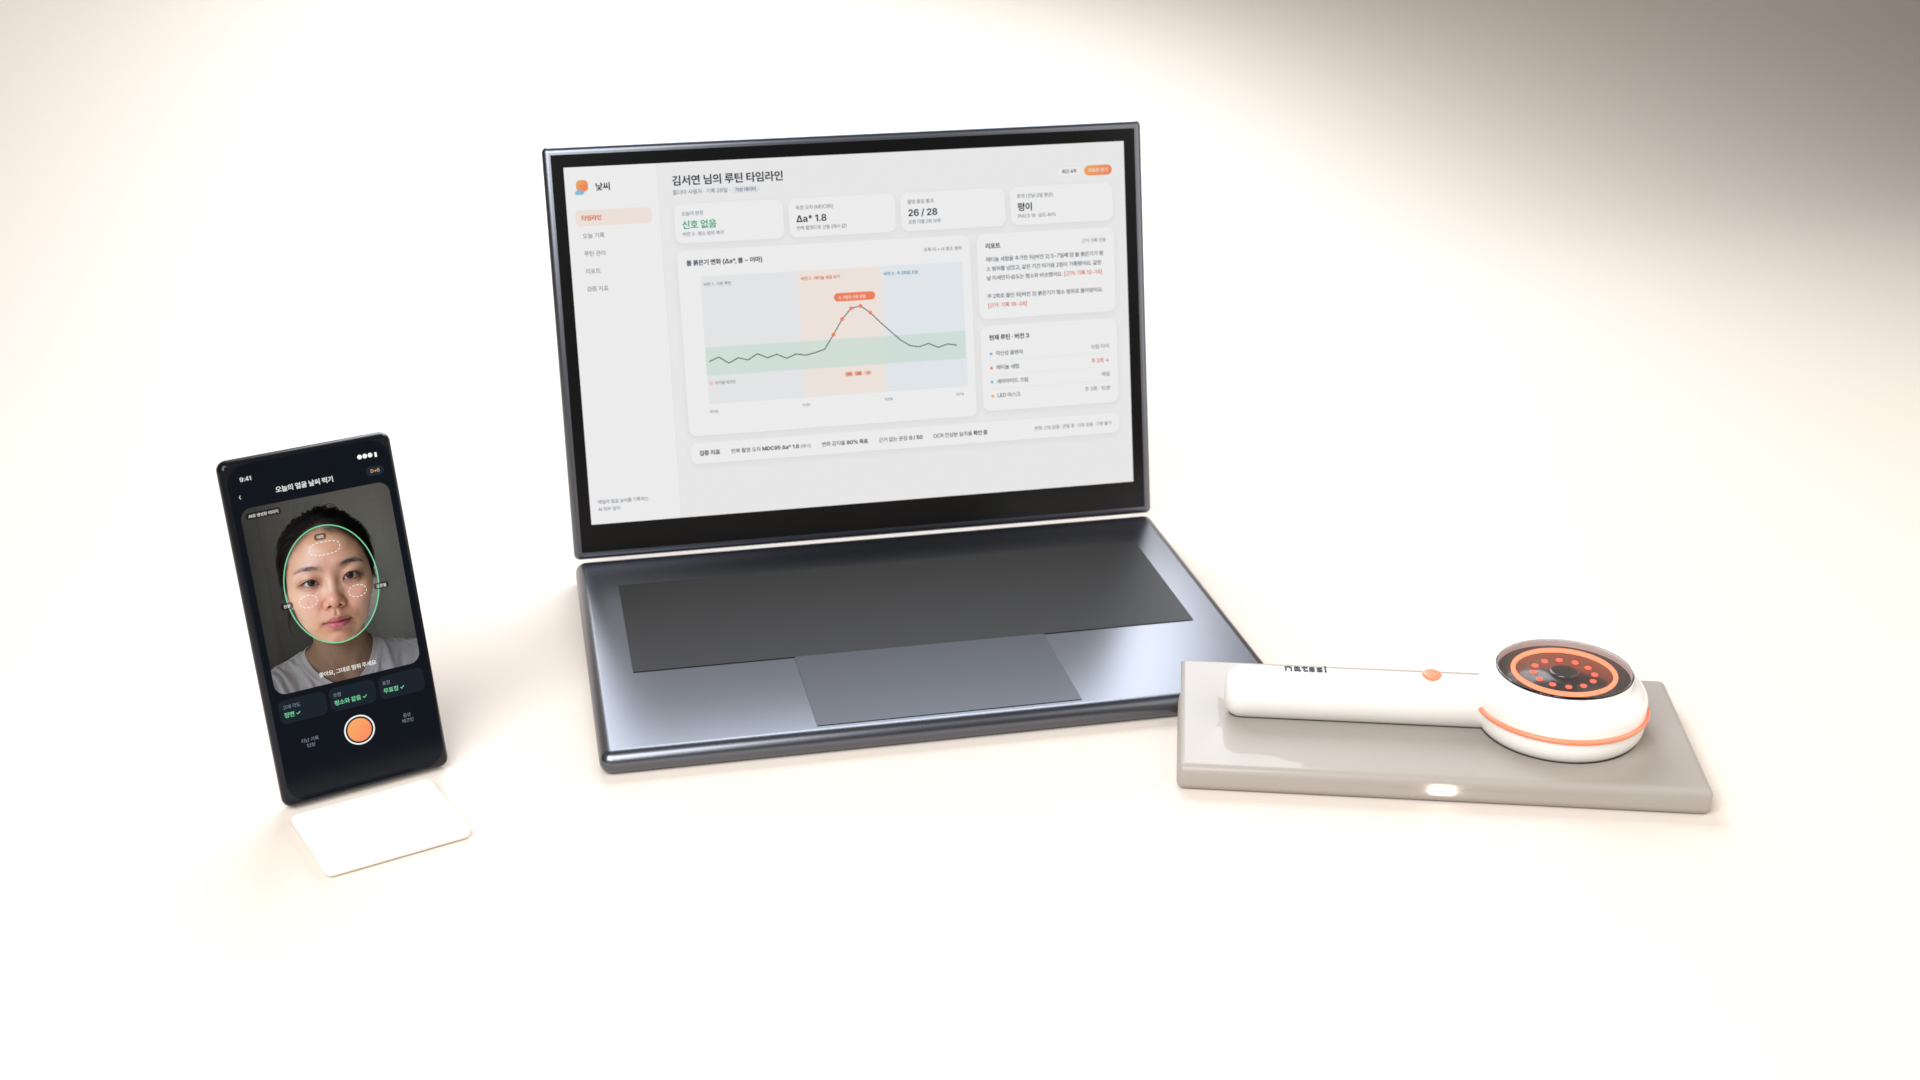
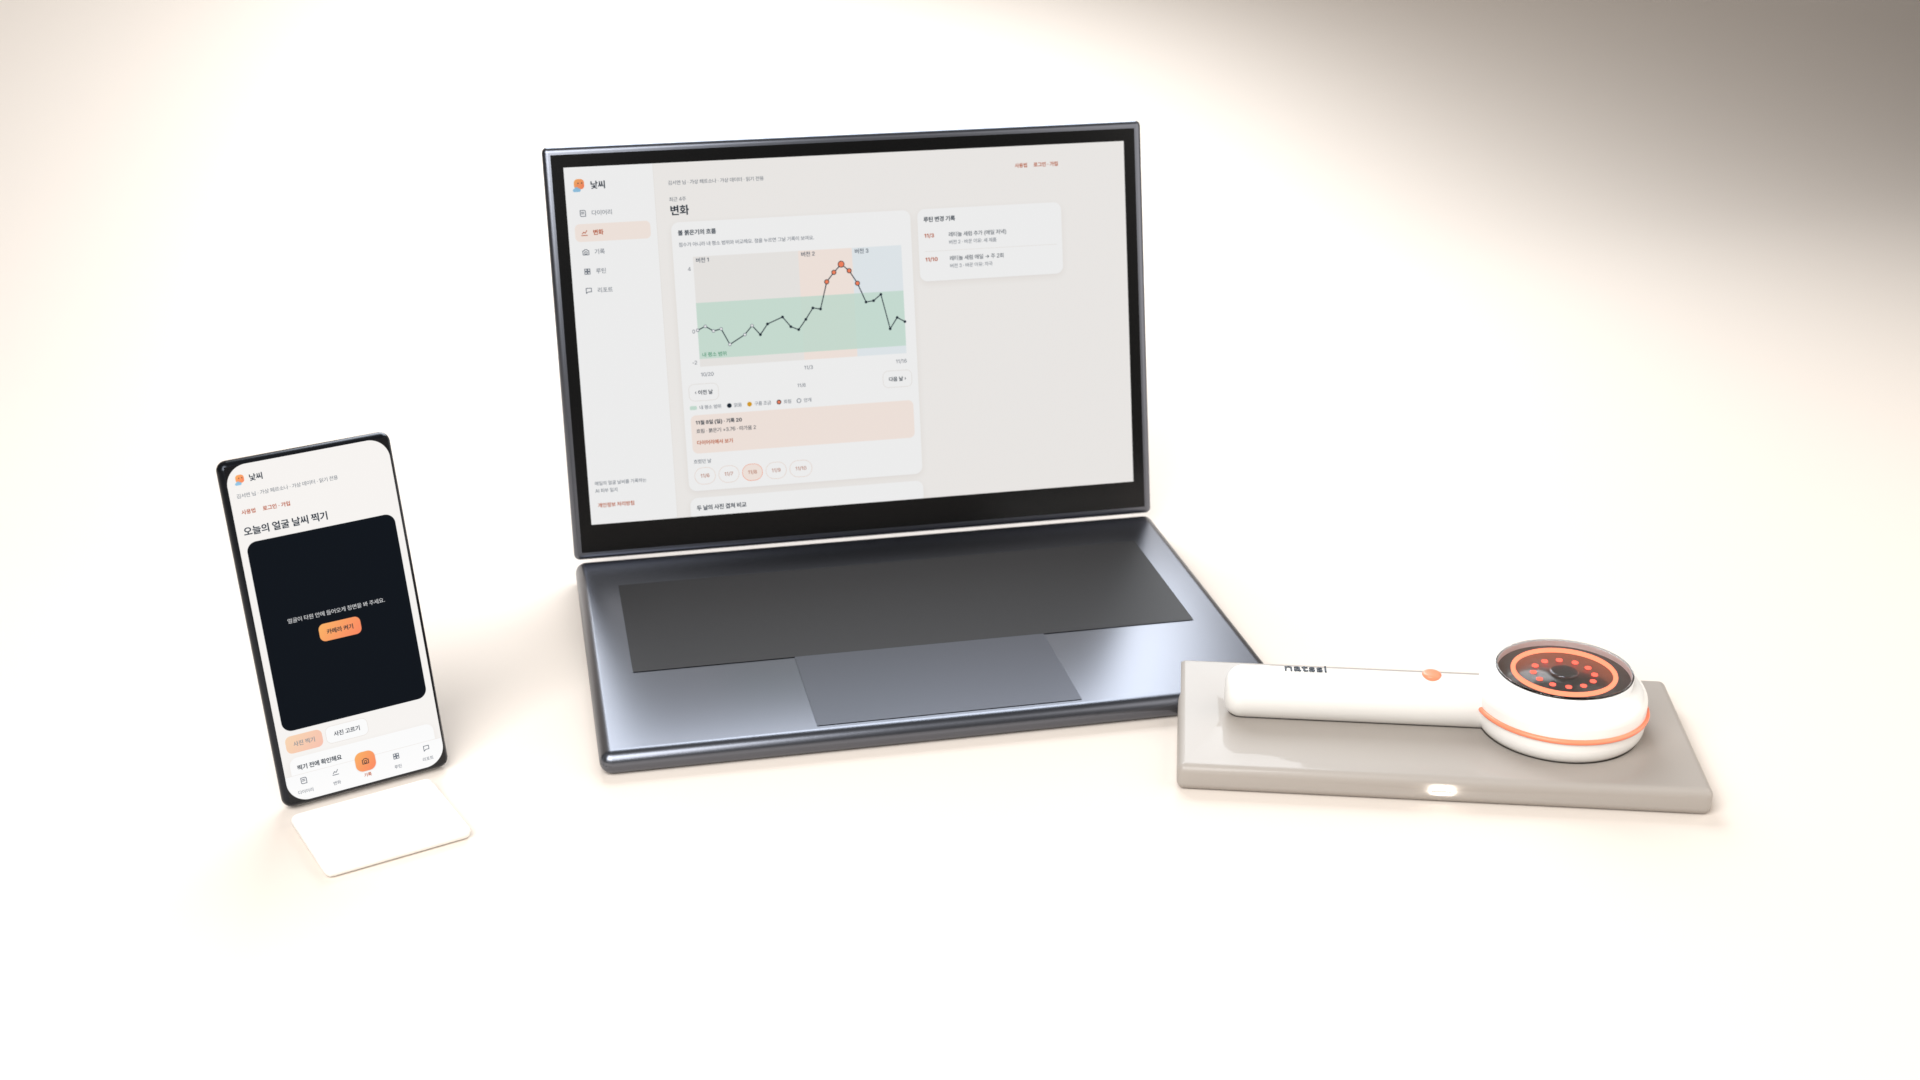
에코시스템 샷에 desktop/·mobile/ 화면 이미지 적용
- 노트북: desktop/04_change.png, 폰: mobile/05_capture.png
- 컷별 화면 교체 SCREEN_SWAP, 변환 스크립트 tools/make_eco_screens.py
- renders/natssi_ecosystem.png 다시 렌더

Claude-Session: https://claude.ai/code/session_019nauXMZk1UjssnXKRRQ7CY

diff --git a/natssi_mockup.py b/natssi_mockup.py
@@ -554,6 +554,22 @@ cams["dock_empty"].data.dof.aperture_fstop = 22
 # 왼쪽 앞 대각선 위에서 내려다봄. 폰은 스캔 화면(Phone_check) 한 대만 보이게 Phone_today를 숨긴다.
 cams["ecosystem"] = camera("Cam_ecosystem", (-0.24, -0.85, 0.45), (0.03, -0.03, 0.085), 40)
 HIDE = {"ecosystem": ("Phone_today",)}                # 컷별로 숨길 오브젝트 이름 접두어
+# 컷별 화면 이미지 교체(재질 이름 → screens/ 안의 파일). desktop/·mobile/ 캡처에서 tools/make_eco_screens.py로 만든다.
+SCREEN_SWAP = {"ecosystem": {"web_scr": "screen_eco_web.png", "Phone_check_scr": "screen_eco_phone.png"}}
+_SCREEN_DEFAULT = {}
+
+
+def swap_screens(key):
+    """key 컷에 맞는 화면 이미지로 바꾸고, 다른 컷에서는 원래 이미지로 되돌린다."""
+    swaps = SCREEN_SWAP.get(key, {})
+    for mats in SCREEN_SWAP.values():
+        for mname in mats:
+            tex = next(n for n in bpy.data.materials[mname].node_tree.nodes if n.type == "TEX_IMAGE")
+            _SCREEN_DEFAULT.setdefault(mname, tex.image)
+            if mname in swaps:
+                tex.image = bpy.data.images.load(os.path.join(SCREENS, swaps[mname]), check_existing=True)
+            else:
+                tex.image = _SCREEN_DEFAULT[mname]
 bpy.context.scene.camera = cams["hero"]
 
 if RENDER:
@@ -563,6 +579,7 @@ if RENDER:
         if only and key not in only.split(","):
             continue
         bpy.context.scene.camera = cam
+        swap_screens(key)
         keep = ("Device_dock", "Device_dock_LED", "Dock_LED_glow")
         for o in bpy.data.objects:                       # dock_empty: 디바이스를 숨기고 거치대 홈만 보여줌
             if o.name.startswith("Device_") or o.name == "Device":

diff --git a/tools/make_eco_screens.py b/tools/make_eco_screens.py
@@ -1,0 +1,13 @@
+"""에코시스템 샷용 화면 이미지 만들기: desktop/·mobile/ 캡처 → screens/screen_eco_*.png
+폰 화면은 기존 screen_phone1.png의 둥근 모서리 알파를 그대로 입힌다."""
+import os
+from PIL import Image
+ROOT = os.path.dirname(os.path.dirname(os.path.abspath(__file__)))
+WEB = os.path.join(ROOT, "desktop", "04_change.png")       # 변화(볼 붉은기 그래프)
+PHONE = os.path.join(ROOT, "mobile", "05_capture.png")     # 오늘의 얼굴 날씨 찍기(스캔 화면)
+Image.open(WEB).convert("RGB").save(os.path.join(ROOT, "screens", "screen_eco_web.png"))
+ref = Image.open(os.path.join(ROOT, "screens", "screen_phone1.png"))
+ph = Image.open(PHONE).convert("RGB").resize(ref.size, Image.LANCZOS)
+ph.putalpha(ref.getchannel("A"))
+ph.save(os.path.join(ROOT, "screens", "screen_eco_phone.png"))
+print("saved", ref.size)

diff --git a/CLAUDE.md b/CLAUDE.md
@@ -30,7 +30,7 @@
 - **A 완료(스캐너 렌즈 구조)**: `Device_lens` → `Device_sensor_base`(r=28mm 어두운 받침, 윗면 top+0.4mm)로 바꾸고 그 위에 `Device_LED`(링 굵기 2mm로 줄임)·`Device_LEDdot*`(라운딩)·`Device_scan_lens`(지름 12mm, 높이 1.6mm, 라운딩, 청흑 코팅 재질 `scan_lens_mat`)를 얹음. 그 위를 `Device_cover_glass`(r=29mm, 두께 1.2mm, Glass BSDF IOR 1.5/Rough 0.01, 밑면 top+3.0mm)가 덮고, 세라믹 칼라 `Device_sensor_collar`가 커버를 받침. 치수 상수 `SENSOR_*`, `SCAN_LENS_*`, `COVER_*`. LED 발광 6/8 → 2.2/2.8(커버 아래 클로즈업에서 하얗게 날아가서). Cycles 바운스 transmission/transparent 16.
   - 검증: `python3 tools/verify_scanner.py`(렌즈 12.0mm, 커버 1.2mm, 렌즈 윗면은 커버 밑면보다 1.0mm, LED 링은 0.6mm 낮음)
   - 남은 문제: 지금 조명에서는 앞(-y)쪽 카메라 각도로 보면 커버 유리에 `Rim` 조명과 흰 배경벽이 거울처럼 비쳐 센서가 가려짐 → B(카메라)·D(조명)에서 반사 방향을 피해야 함. `renders/`의 기존 PNG는 아직 옛 렌즈로 렌더된 상태(마무리 단계에서 다시 렌더).
-- **에코시스템 샷 추가**: 컷 `ecosystem`(`Cam_ecosystem`, 40mm, 왼쪽 앞 대각선 위). 컷별 숨김 목록 `HIDE`로 이 컷에서만 `Phone_today`를 숨김. 조명은 아직 기존 3점 조명 그대로(D 이후 다시 렌더 필요). 로고 `natssi`는 이 각도에서 뒤집혀 보임.
+- **에코시스템 샷 추가**: 컷 `ecosystem`(`Cam_ecosystem`, 40mm, 왼쪽 앞 대각선 위). 컷별 숨김 목록 `HIDE`로 이 컷에서만 `Phone_today`를 숨김. 화면은 이 컷에서만 `SCREEN_SWAP`으로 교체: 노트북 `desktop/04_change.png`, 폰 `mobile/05_capture.png`(`tools/make_eco_screens.py`가 `screens/screen_eco_*.png`로 변환, 폰은 둥근 모서리 알파 입힘). 조명은 아직 기존 3점 조명 그대로(D 이후 다시 렌더 필요). 로고 `natssi`는 이 각도에서 뒤집혀 보임.
 
 ## 다음 작업 (사용자 요청 원문 요약 — 이 순서로 진행)
 ### A. 스캐너 렌즈 구조 (디바이스 머리 윗면)

diff --git a/README.md b/README.md
@@ -35,6 +35,7 @@ blender -b -P natssi_mockup.py
 
 ## 에코시스템 샷 (`ecosystem`)
 
-- 노트북(웹 대시보드 `screen_web.png`) + 폰(스캔 앱 화면 `screen_phone1.png`) + 데스크 스캐너(거치대 위 디바이스)를 한 화면에 담은 풀 샷
+- 노트북(웹 `desktop/04_change.png` 변화 그래프) + 폰(스캔 앱 화면 `mobile/05_capture.png`) + 데스크 스캐너(거치대 위 디바이스)를 한 화면에 담은 풀 샷
+- 화면 이미지는 `python3 tools/make_eco_screens.py`로 `screens/screen_eco_web.png`, `screens/screen_eco_phone.png`를 만들어 이 컷에서만 바꿔 넣음(`SCREEN_SWAP`). 다른 화면을 쓰려면 이 스크립트의 파일 경로를 바꾸고 다시 실행
 - 왼쪽 앞 대각선 위에서 내려다보는 카메라 `Cam_ecosystem`(40mm). 이 컷에서만 두 번째 폰(`Phone_today`)을 숨김
 - 렌더: `NATSSI_SHOTS=ecosystem python3 natssi_mockup.py` → `renders/natssi_ecosystem.png`
